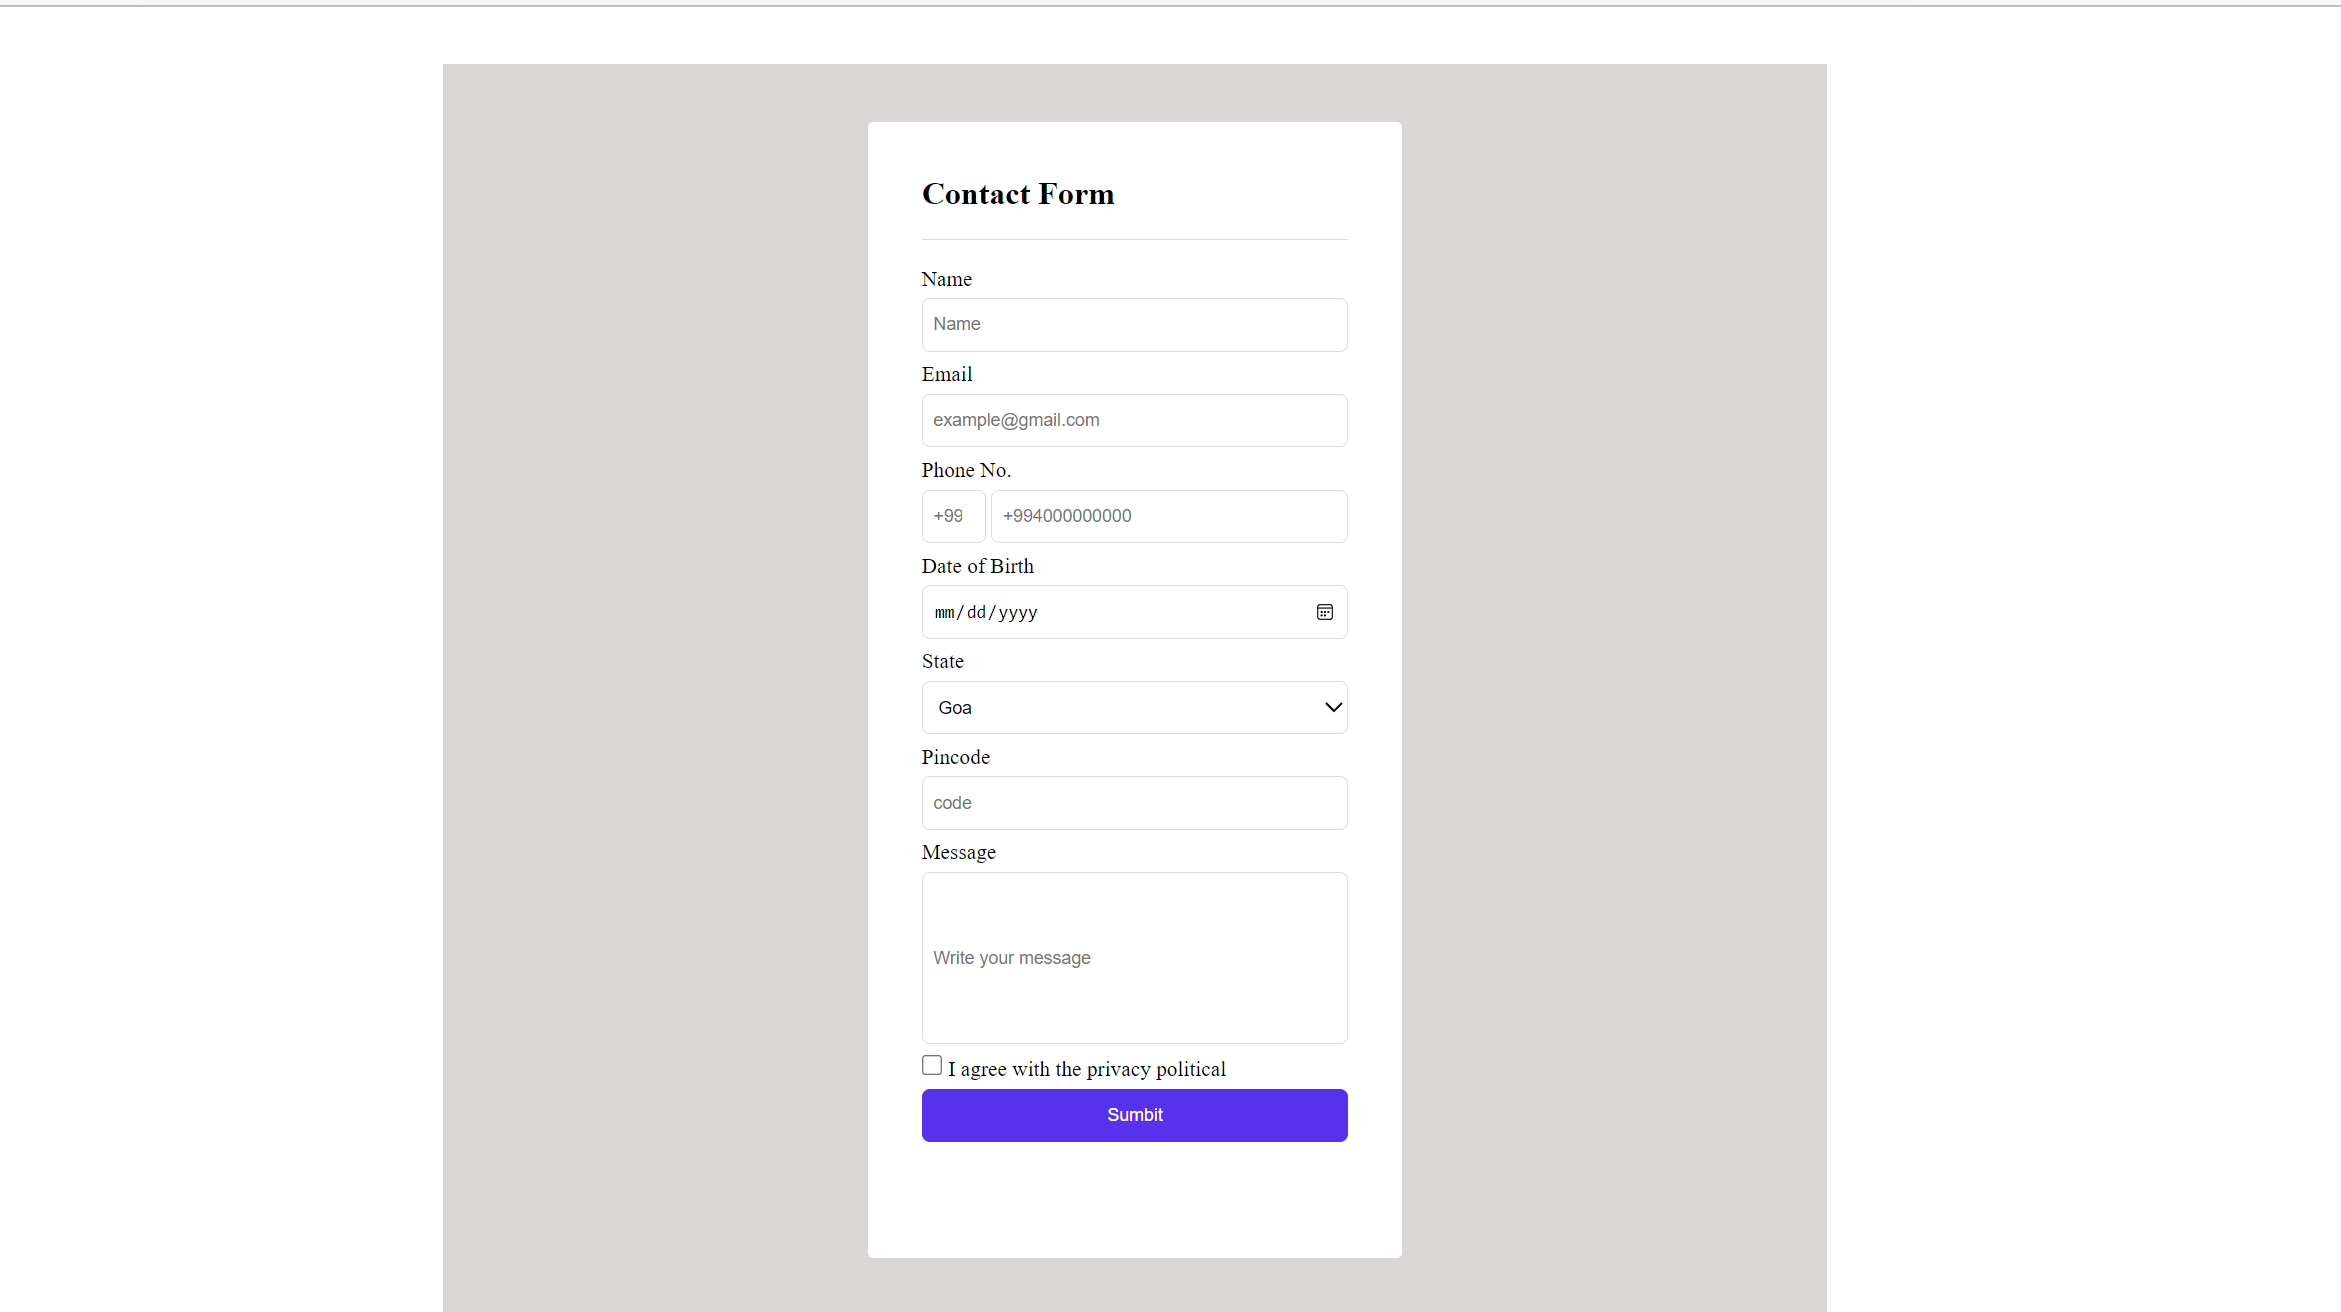
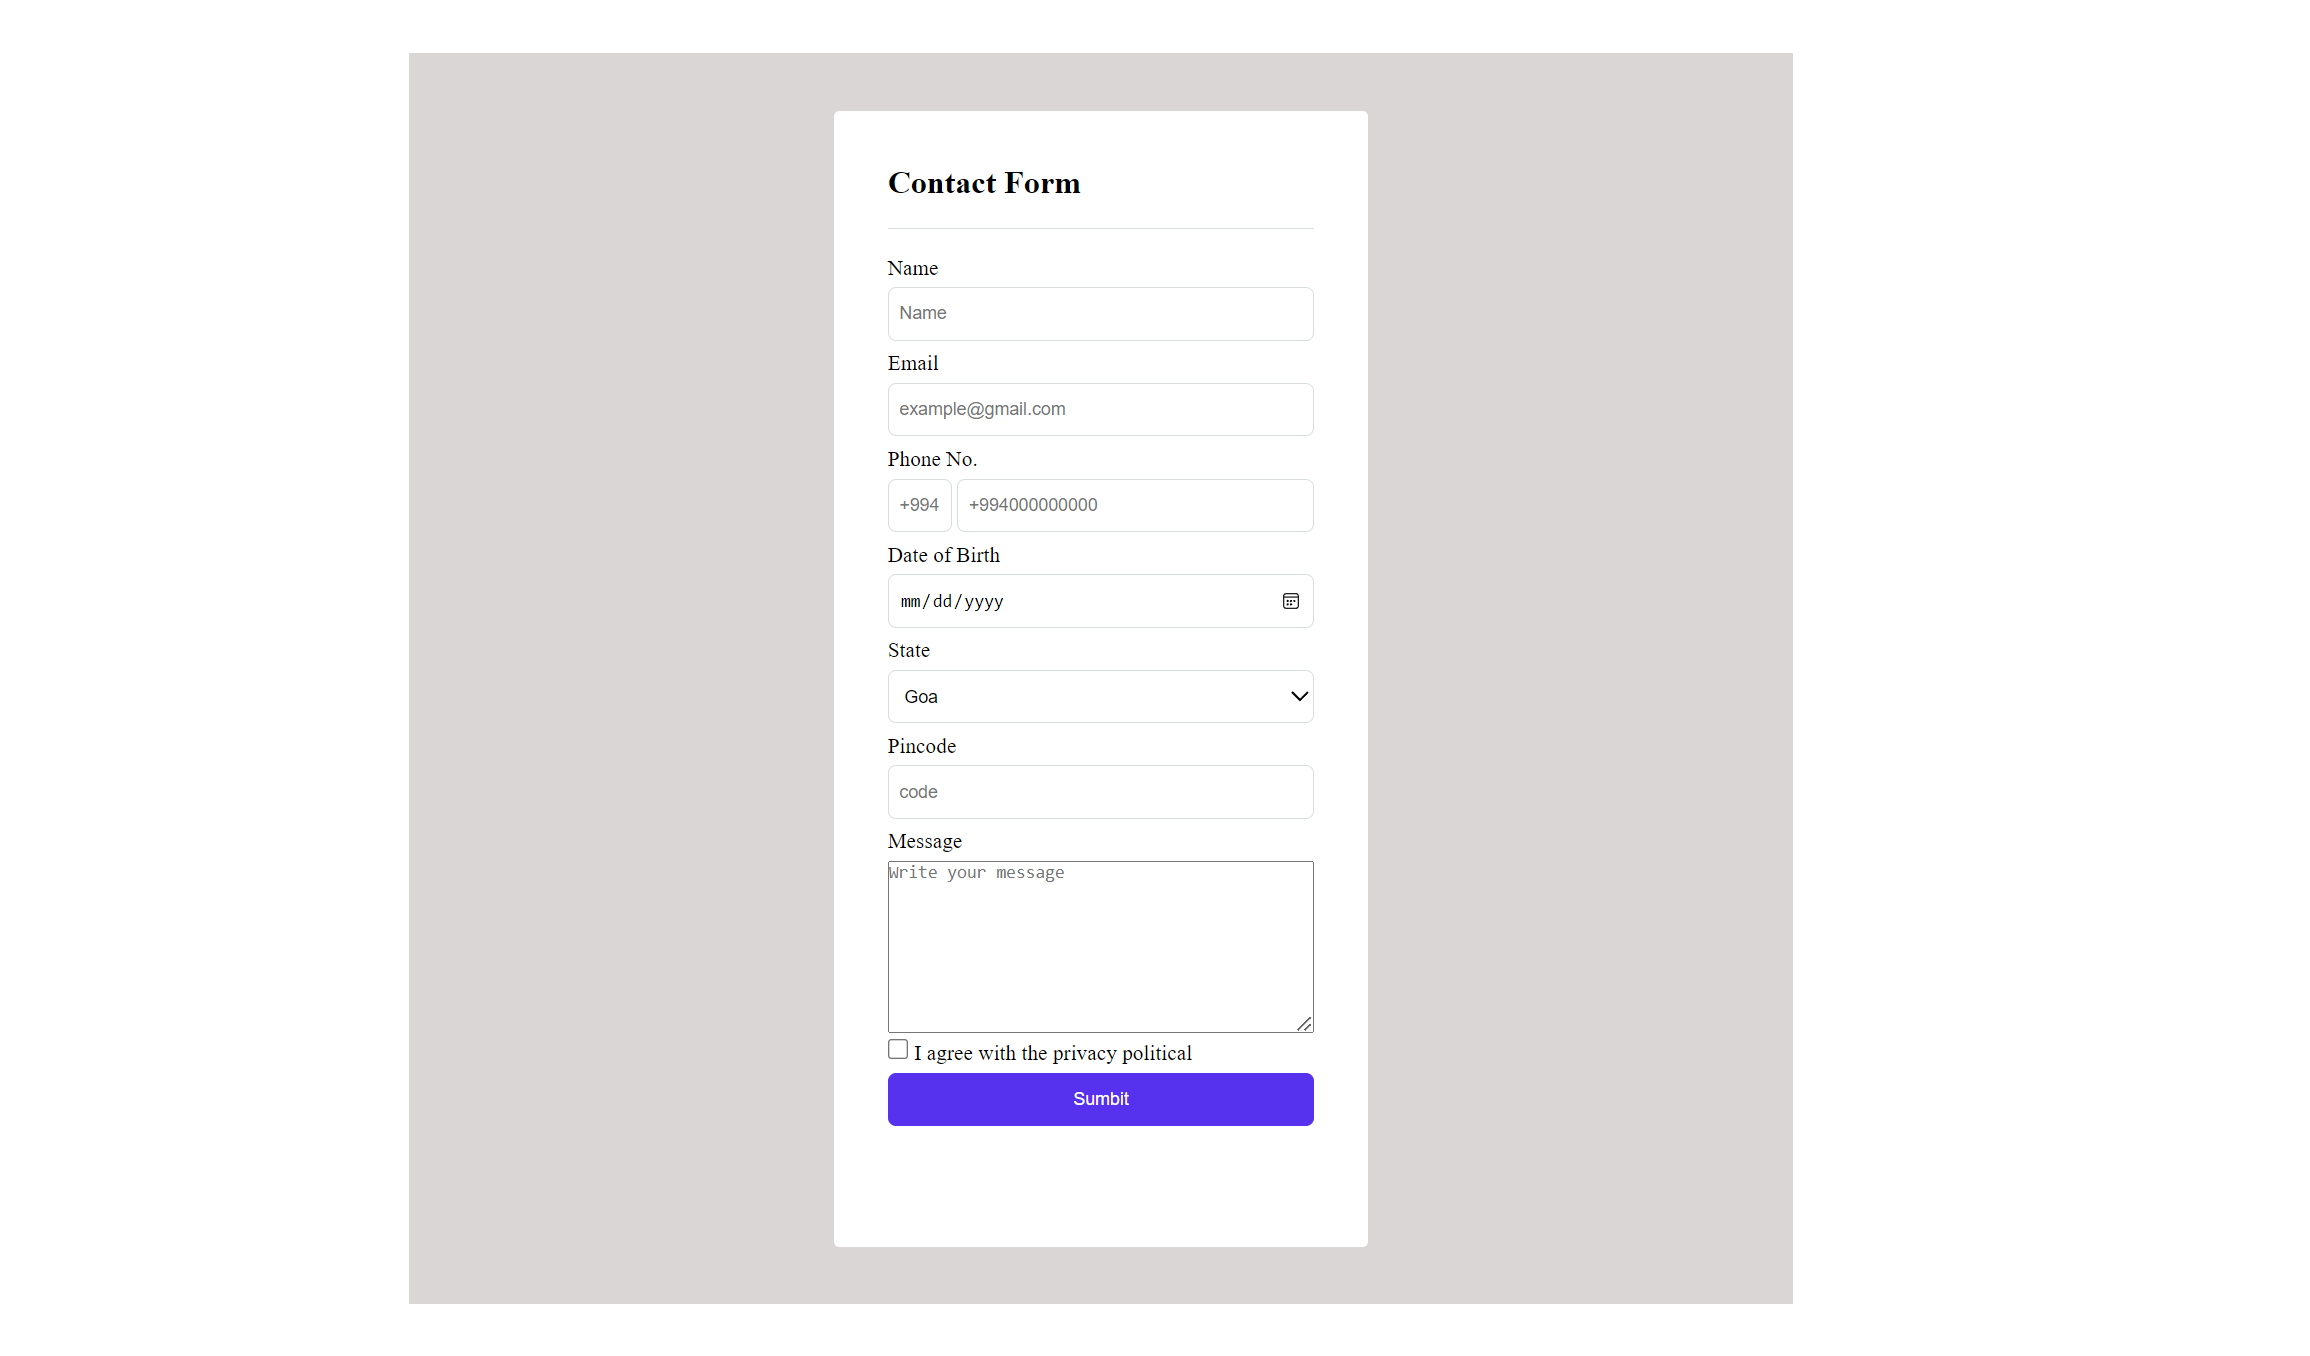
edit

Changed region(s): [[0.1558, 0.0312, 0.7792, 1.0]]

diff --git a/task2/form.html b/task2/form.html
@@ -25,8 +25,8 @@
             <div class="insideform">
                 <label for="phone">Phone No.</label>
                 <div>
-                    <input class="pre" type="number" id="phone" placeholder="+994">
-                    <input class="number" type="number" id="phone" placeholder="+994000000000">
+                    <input class="pre" type="tel" id="phone" placeholder="+994">
+                    <input class="number" type="tel" id="phone" placeholder="+994000000000">
                 </div>
                 
             </div>
@@ -50,7 +50,7 @@
             </div>
             <div class="insideform">
                 <label for="message">Message</label>
-                <input class="message" type="text" id="message" placeholder="Write your message">
+                <textarea class="message" placeholder="Write your message" ></textarea>
             </div>
             <div class="insideform">
                 <input class="checkbox" type="checkbox" id="checkbox" >
